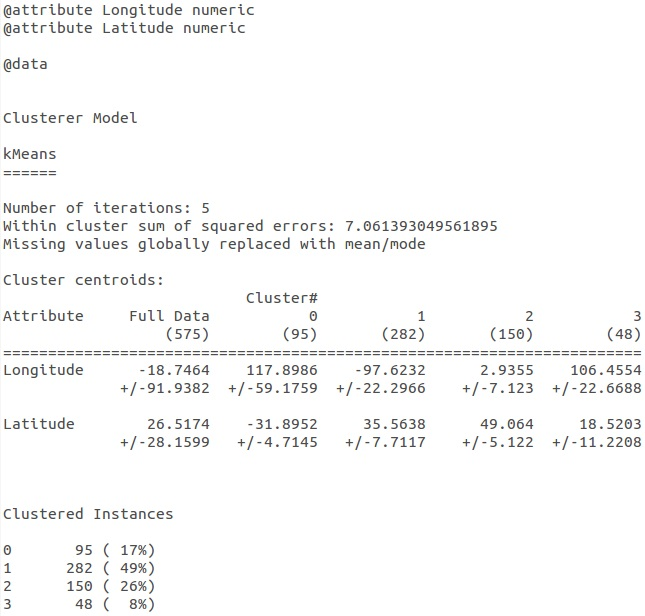
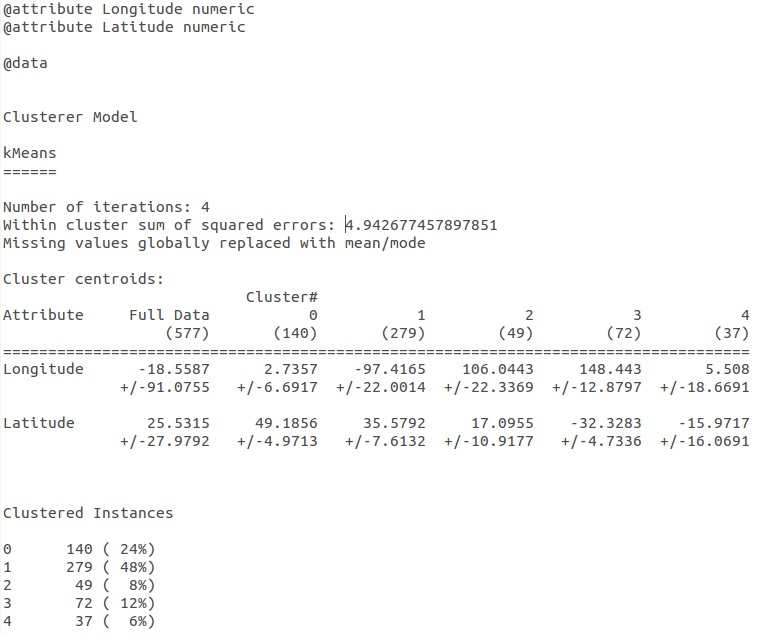
readme

diff --git a/src/visualization/sharks.html b/src/visualization/sharks.html
@@ -58,6 +58,7 @@
                     var imageP = "images/pinkdot.png";
                     var imageG = "images/greendot.png";
                     var imageR = "images/reddot.png";
+                    var imageY = "images/yellowdot.png";
 
                     $(document).ready(function() {
                         $.getJSON("clustered.json", function(json1) {
@@ -100,9 +101,16 @@
                                         icon: imageR
                                     });
                                     marker.setMap(map);
+                                } else if (data.cluster === 4) {
+                                    var latLng = new google.maps.LatLng(data.lat, data.lon);
+                                    // Creating a marker and putting it on the map
+                                    var marker = new google.maps.Marker({
+                                        position: latLng,
+                                        title: data.cluster.toString(),
+                                        icon: imageY
+                                    });
+                                    marker.setMap(map);
                                 }
-
-
                             });
                         });
                     });

diff --git a/src/weka/ReadArff.java b/src/weka/ReadArff.java
@@ -59,7 +59,6 @@ public class ReadArff {
         filteredClusterer.setFilter(removeFilter);
         filteredClusterer.buildClusterer(data);
 
-        //writeClusters(data, filteredClusterer);
         writeCluster("data/changedLocation", data, filteredClusterer);
 
         // Result of clusterization
@@ -70,36 +69,6 @@ public class ReadArff {
         writeFile(eval.clusterResultsToString(), txtName);
 
         //visualize(data, filteredClusterer, eval);
-    }
-
-    private void writeClusters(Instances data, FilteredClusterer filteredClusterer) throws Exception {
-        PrintWriter writer1 = new PrintWriter("data/resultWithClusters1.txt");
-        PrintWriter writer2 = new PrintWriter("data/resultWithClusters2.txt");
-        PrintWriter writer3 = new PrintWriter("data/resultWithClusters3.txt");
-        PrintWriter writer4 = new PrintWriter("data/resultWithClusters4.txt");
-
-        for (int i = 0; i < data.numInstances(); i++) {
-            if (filteredClusterer.clusterInstance(data.instance(i)) == 0) {
-                writer1.print(data.instance(i).toString());
-                writer1.println(", " + filteredClusterer.clusterInstance(data.instance(i)));
-            } else if (filteredClusterer.clusterInstance(data.instance(i)) == 1) {
-                writer2.print(data.instance(i).toString());
-                writer2.println(", " + filteredClusterer.clusterInstance(data.instance(i)));
-            } else if (filteredClusterer.clusterInstance(data.instance(i)) == 2) {
-                writer3.print(data.instance(i).toString());
-                writer3.println(", " + filteredClusterer.clusterInstance(data.instance(i)));
-            } else if (filteredClusterer.clusterInstance(data.instance(i)) == 3) {
-                writer4.print(data.instance(i).toString());
-                writer4.println(", " + filteredClusterer.clusterInstance(data.instance(i)));
-            }
-
-        }
-
-        writer1.close();
-        writer2.close();
-        writer3.close();
-        writer4.close();
-
     }
 
     private void writeFile(String text, String name) throws FileNotFoundException {

diff --git a/src/test/Test.java b/src/test/Test.java
@@ -65,14 +65,14 @@ public class Test {
         CreateArff ca = new CreateArff();
         ca.general(listPhoto2);
 */
-   //     ReadArff ra = new ReadArff();
+    //    ReadArff ra = new ReadArff();
 
-        //changing number of clusters led to a conclusion the best number is 4
-/*        for (int i = 1; i < 30; i++) {
-            ra.readArff("proba", i, "rez" + i);
+        //changing number of clusters led to a conclusion the best number is 5
+    /*    for (int i = 1; i < 30; i++) {
+           ra.readArff("trial", i, "rez" + i);
         }
 */
-   //     ra.readArff("trial", 4, "result");
+    //    ra.readArff("trial", 5, "result");
         
        Desktop.getDesktop().browse(new URI("file:///home/jelena/NetBeansProjects/FlickrClusterization%20/src/visualization/sharks.html")); 
        

diff --git a/README.md b/README.md
@@ -26,7 +26,7 @@ Aplikacija preuzima podatke sa dva različita izvora ([Flickr](https://www.flick
 >[https://api.flickr.com/services/rest/?method=flickr.photos.search&text=shark&sort=relevance&page=1&api_key=64a298d057676a6d7298262797a23440&format=json]
 (https://api.flickr.com/services/rest/?method=flickr.photos.search&text=shark&sort=relevance&page=1&api_key=64a298d057676a6d7298262797a23440&format=json)
 
-Parametar *method* ukazuje na metodu koja se poziva na sajtu, u ovom slu;aju je to metoda search. Da bi se koristila metoda search, potrebno je uneti kriterijum pretrage, što je u primeru zadata reč shark. Parametar *sort* se odnosi na način sortiranja, ovde je to po relevantnosti. Zatim, parametar *page* nam pomaže da se lakše kećemo po dobijenim rezultatima pretrage, odnosno da nam kao rezultat metode bude vraćena samo prva stranica. Parametar *api_key* se dobija prilikom registracije za korišćenje Flickr API-a, i obavezan je deo poziva svake metode. Parametar *format* nam omogućava da rezultat metode bude vraćen u formatu koji nama odgovara, u ovom slučaju je to JSON. Podaci koji se na osnovu ovog poziva preuzimaju su: id, userId, title, server, secret i location.
+Parametar *method* ukazuje na metodu koja se poziva na sajtu, u ovom slučaju je to metoda search. Da bi se koristila metoda search, potrebno je uneti kriterijum pretrage, što je u primeru zadata reč shark. Parametar *sort* se odnosi na način sortiranja, ovde je to po relevantnosti. Zatim, parametar *page* nam pomaže da se lakše kećemo po dobijenim rezultatima pretrage, odnosno da nam kao rezultat metode bude vraćena samo prva stranica. Parametar *api_key* se dobija prilikom registracije za korišćenje Flickr API-a, i obavezan je deo poziva svake metode. Parametar *format* nam omogućava da rezultat metode bude vraćen u formatu koji nama odgovara, u ovom slučaju je to JSON. Podaci koji se na osnovu ovog poziva preuzimaju su: id, userId, title, server, secret i location.
 
 [Geonames](http://www.geonames.org/) daje podatke o geografskoj lokaciji unetog mesta. Ovde se mogu dobiti informacije kao što su geografska dužina i širina, kod države, populacija, naziv države. U sledećem primeru dat je poziv ovog servisa:
 
@@ -42,26 +42,59 @@ Svi podaci koji su dobijeni smeštani su u JSON fajl. Primer JSON objekta dat je
 
 ```
 	[
-	  {
-	    "id": "5266243108",
+	   {
+	    "id": "3873710525",
 	    "userId": "21915962@N02",
-	    "secret": "8bb6ebc8b8",
-	    "server": "5284",
-	    "title": "Reef",
-	    "location": "Australia"
+	    "secret": "9460b2dd37",
+	    "server": "2480",
+	    "title": "White",
+	    "location": "Australia",
+	    "lon": 135.0,
+	    "lat": -25.0,
+	    "cluster": 0
 	  },
 	  {
-	    "id": "1038089969",
-	    "userId": "94802649@N00",
-	    "secret": "e01b5dd141",
-	    "server": "1012",
-	    "title": "Tiger",
-	    "location": "Lake Worth, FL, USA"
+	    "id": "8856286135",
+	    "userId": "36937610@N08",
+	    "secret": "b55718d380",
+	    "server": "3825",
+	    "title": "White",
+	    "location": "United States",
+	    "lon": -80.41394,
+	    "lat": 37.22957,
+	    "cluster": 0
 	  }
 	]
 ```
 
-Kao što se može videti, JSON fajl se sastoji od JSON objekata. Svaki objekat sadrži podatke o slici: id, userId, secret, server, title i location. Dalje su ovi podaci konvertovani u ARFF fajl. ARFF (Attribute-Relation File Format) fajl je tekstualan ASCII koji opisuje listu instanci koje dele set atributa. ARFF fajl se kasnije koristi za klasterizaciju. Za klasterizaciju je izabrano četiri klastera, jer je probom ustanovljeno da se oko te vrednosti dešava najmanje rasipanje podataka, odnosno najmanja promena greške nastale usled klasterovanja.
+Kao što se može videti, JSON fajl se sastoji od JSON objekata. Svaki objekat sadrži podatke o slici: id, userId, secret, server, title, location, lon, lat i cluster. Dalje su ovi podaci konvertovani u ARFF fajl. ARFF (Attribute-Relation File Format) fajl je tekstualan ASCII koji opisuje listu instanci koje dele set atributa. ARFF fajl se kasnije koristi za klasterizaciju. Za klasterizaciju je izabrano četiri klastera, jer je probom ustanovljeno da se oko te vrednosti dešava najmanje rasipanje podataka, odnosno najmanja promena greške nastale usled klasterovanja. Nakon klasterovanja, u podacima je promenjena vrednost podatka cluster, pa je dobjen novi JSON fajl:
+
+```
+	[
+	   {
+	    "id": "3873710525",
+	    "userId": "21915962@N02",
+	    "secret": "9460b2dd37",
+	    "server": "2480",
+	    "title": "White",
+	    "location": "Australia",
+	    "lon": 135.0,
+	    "lat": -25.0,
+	    "cluster": 3
+	  },
+	  {
+	    "id": "8856286135",
+	    "userId": "36937610@N08",
+	    "secret": "b55718d380",
+	    "server": "3825",
+	    "title": "White",
+	    "location": "United States",
+	    "lon": -80.41394,
+	    "lat": 37.22957,
+	    "cluster": 1
+	  }
+	]
+```
 
 
 #4. Korišćena tehnologija
@@ -105,19 +138,51 @@ Prilikom realizacije aplikacije korišćene su sledeće tehnologije:
 	eval.evaluateClusterer(data);
 ```
 
+5. [Google maps] (https://developers.google.com/maps/documentation/javascript/) - koriščeno za prikaz klastera na mapi sveta. Omogućava postavljanje različitih markera na mapi, kako bi se označila pripadnost određenoj grupi klastera. Za korišćenje je potreban *api key* kako bi se pozvao servis:
+
+```
+        <script type="text/javascript"
+                src="https://maps.googleapis.com/maps/api/js?key=AIzaSyBksrT0O5yUkw0zc2J7YhaYo_zy5FmM5Y4&sensor=false">
+        </script>
+```
+
+Za postavljanje markera napravljena je posebna funkcija:
+
+```
+        if (data.cluster === 0) {
+           var latLng = new google.maps.LatLng(data.lat, data.lon);
+           // Creating a marker and putting it on the map
+           var marker = new google.maps.Marker({
+		   position: latLng,
+		   title: data.cluster.toString(),
+		   icon: imageB
+           });
+           marker.setMap(map);
+       } else if (data.cluster === 1) {
+          var latLng = new google.maps.LatLng(data.lat, data.lon);
+           // Creating a marker and putting it on the map
+           var marker = new google.maps.Marker({
+		   position: latLng,
+		   title: data.cluster.toString(),
+		   icon: imageP
+           });
+           marker.setMap(map);
+       }
+```
+
 U ovom primeru korišćen je SimpleKMeans algoritam za klasterovanje. Jedan je od najpoznatijih algoritama za klasterovanje. Koristi se tako što mu se zada broj klastera, a zatim on prolazeći kroz iteracije razvrstava podatke. SimpleKMeans grupiše instance na osnovu Euklidske udaljenosti u ravni koja je postavljena atributima tih instanci. Na početku, prilikom inicijalizacije nasumično bira onoliki broj težišta klastera koliko je zadati broj klastera. U sledećoj iteraciji razvrstava instance na osnovu udaljenosti od težišta klastera. Zatim pomera težište klastera na osnovu izračunatih proseka vrednosti instanci u klasteru. Ovaj postupak se ponavlja sve dok algoritam ne konvergira, jer daljim razvrstavanjem se nece dobiti značajnije promene, pa se proces zaustavlja. Primenom ovog algoritma, dobijeni su sledeći klasteri:
 
 ![Slika 2 - Type clusters](images/results.jpg)
 
-Kao što se na slici 2 može videti, dobijena su četiri klastera sa po 140, 279, 70 i 88 instanci respektivno. U prvom klasteru se nalaze vrste ajkula među kojima je najvise nurse ajkula. U drugom su pretežno bele ajkule. U trećem limun, tigar i reef ajkule. U četvrtom najviše ima kit ajkula.
+Kao što se na slici 2 može videti, dobijeno je pet klastera sa po 140, 279, 49, 72 i 37 instanci respektivno. U prvom klasteru se nalaze vrste ajkula među kojima je najvise nurse ajkula. U drugom su pretežno bele ajkule. U trećem limun, tigar i reef ajkule. U četvrtom najviše ima kit ajkula. U petom je najviše neimenovanih ajkula, zatimreef i belih ajkula.
 
-![Slika 3 - Location clusters](images/wekaVisType.jpg)
+U prvom se nalaze instance čija je lokacija najbliža Evropi (njih 140). U drugom se nalaze one koje su najbliže Sjedinjenim Američkim Državama (njih 279). U trećem se nalaze one koje su po lokaciji najbliže Kini (njih 49). U četvrtom se nalaze one instance koje su po lokaciji najbliže Australiji (njih 72). U petom se nalaze one koje su najbliže Južnoj Americi i Africi (njih 37).
 
-U prvom se nalaze instance čija je lokacija najbliža Evropi (njih 140). U drugom se nalaze one koje su najbliže Sjedinjenim Američkim Državama (njih 140). U trećem se nalaze one koje su po lokaciji najbliže Kini njih 70). U četvrtom se nalaze one instance koje su po lokaciji najbliže Australiji (njih 88).
+Na slici 2 se može videti koliko instanci je u kom klasteru. Od ukupno 577 instanci 140 (24%) je u prvom klasteru; 279 (48%) u drugom; 49 (8%) u trećem; 72 (12%) u četvrtom i 37 (6%) u petom. Metodom probanja dobijeno je da se se prilikom klasterizacije na pet klastera dobija najmanje osipanje podataka uz najmanju kvadratnu grešku od 4.942677457897851.
 
-Na slici 3 se može videti koliko instanci je u kom klasteru. Od ukupno 575 instanci 95 (17%) je u prvom klasteru; 282 (49%) u drugom; 150 (26%) u trećem i 48 (5%) u četvrtom. Metodom probanja dobijeno je da se se prilikom klasterizacije na četiri klastera dobija najmanje osipanje podataka uz najmanju kvadratnu grešku od 8.314650964383816.
+Na slici 3 se može videti prikaz klasterizovanih podataka prikazanih na mapi sveta.
 
-![Slika 4 - Location clusters](images/wekaVisClust.jpg)
+![Slika 3 - Clusters](images/map.jpg)
 
 #5. Priznanja
 Ova aplikacija je nastala kao rezultat seminarskog rada iz predmeta [Inteligentni sistemi](http://is.fon.rs/) na Fakultetu organizacionih nauka, Univerziteta u Beogradu, Srbija, 2014. godine.
